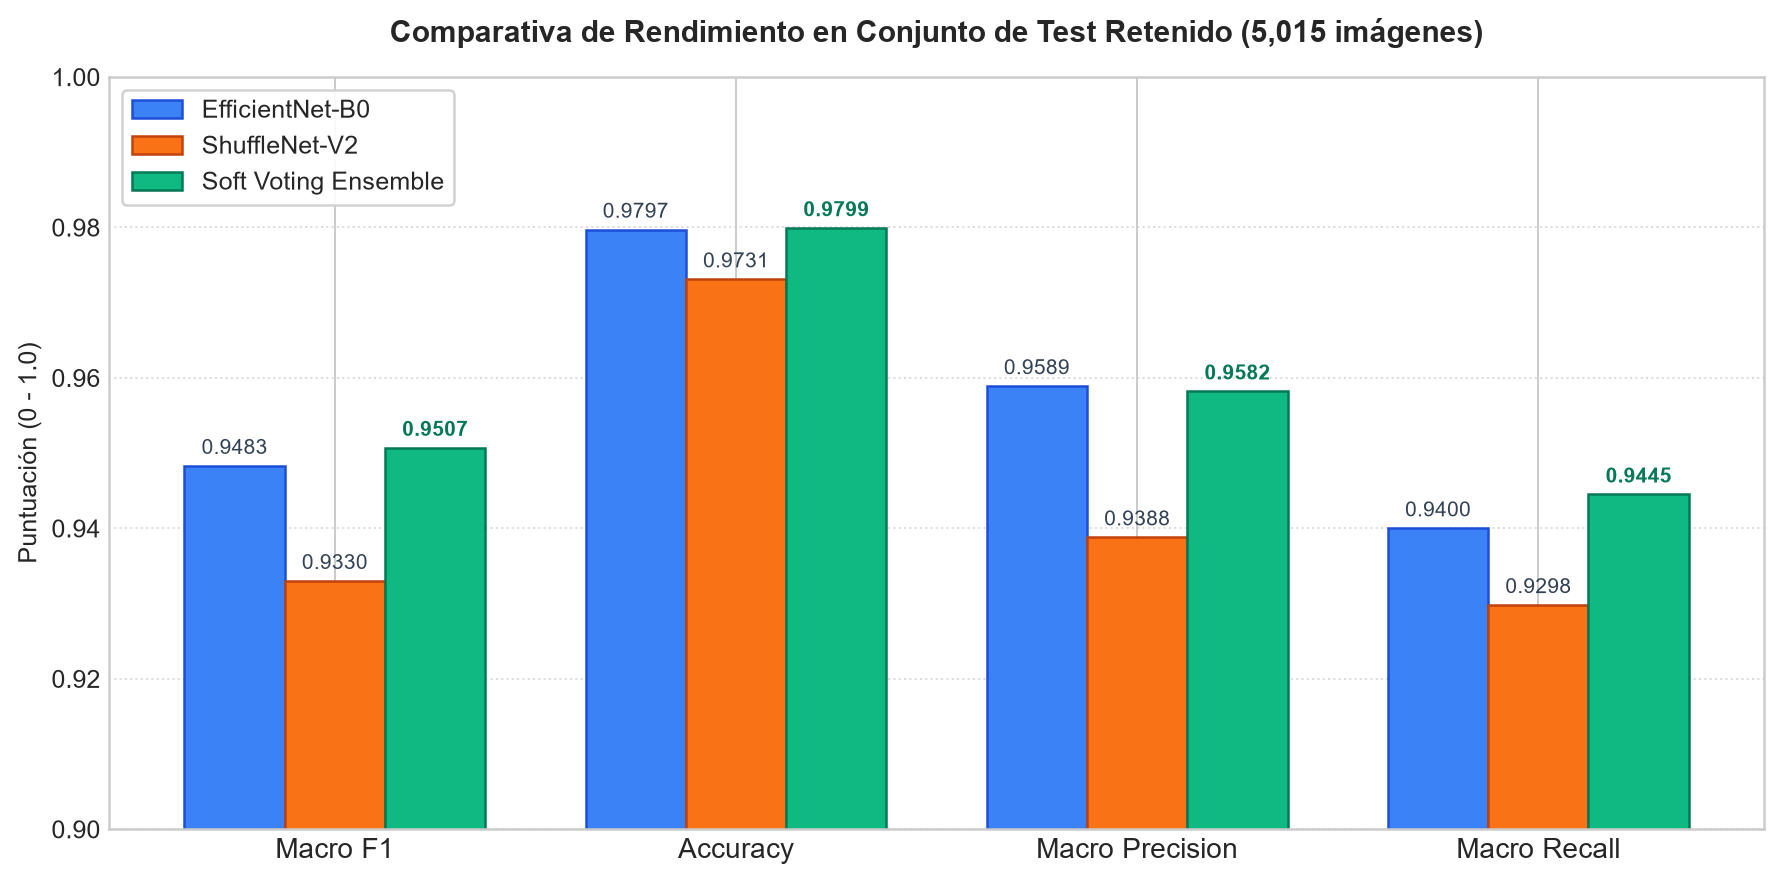
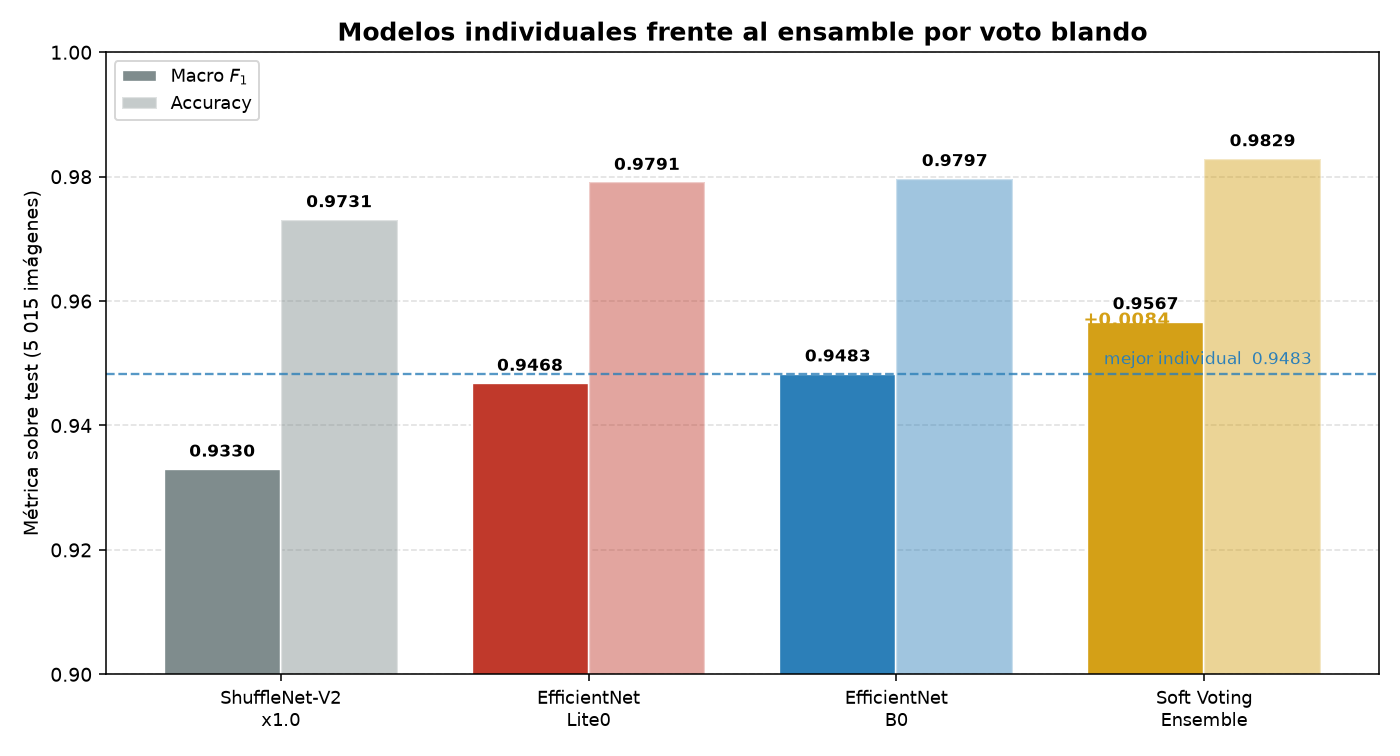
docs(ensamble): corregir toda la pagina al ensamble de tres modelos
El diagrama, la formula de agregacion y la figura comparativa describian un ensamble
de dos modelos. Correcciones verificadas contra ensemble_predictions.csv:

- Diagrama y formula pasan a tres ramas con pesos 1/3, que es lo que asigna
  src/models/ensemble.py cuando no se especifican; el documento afirmaba 0.5 y 0.5.
- Recuentos de parametros sustituidos por los del modelo con cabeza de 9 clases
  (4.02 / 3.38 / 1.26 M) en lugar de los de la publicacion original con 1000 clases.
- ensemble_comparison_bar.png regenerada con las cuatro barras.
- Macro Recall del ensamble 0.9506, no 0.9445, que era la cifra del ensamble anterior.
- Hallazgos por clase recomputados: healthy 0.9939 de precision (no 99.7%), roya
  0.9882 de recall (no 98.5%), nitrogeno 0.9057 y fosforo 0.9632 de F1 (no 89.5% y
  95.3%), y se anade potasio con sus tres metricas.
- Los comandos de reproducibilidad pasan checkpoints explicitos: el autodescubrimiento
  selecciona para lite0 la corrida segmentada, que rinde 0.7191.

diff --git a/docs/es/pipeline/ensamble.md b/docs/es/pipeline/ensamble.md
@@ -11,36 +11,34 @@ En el aprendizaje profundo, un ensamble solo produce ganancias significativas si
 Por esta razón se seleccionaron arquitecturas con **sesgos inductivos (*inductive bias*) dispares**. `EfficientNet-Lite0` aporta una tercera fuente de diversidad: sustituye los bloques Squeeze & Excitation y las activaciones *swish* de `B0` por operaciones cuantizables, de modo que su representación interna difiere de la de `B0` pese a compartir la familia de escalado compuesto.
 
 ```
-                         ┌────────────────────────────────────┐
-                         │ Imagen de Entrada (224 x 224 x 3)  │
-                         └─────────────────┬──────────────────┘
-                                           │
-                    ┌──────────────────────┴──────────────────────┐
-                    ▼                                             ▼
-     ┌─────────────────────────────┐               ┌─────────────────────────────┐
-     │      EfficientNet-B0        │               │      ShuffleNet-V2-x1.0     │
-     │ • Bloques MBConv Invertidos │               │ • Channel Split & Shuffle   │
-     │ • Atención Squeeze & Excite │               │ • Sin atención de canales   │
-     │ • Compounding Scaling (NAS) │               │ • Optimización de memoria   │
-     │ • Parámetros: 5.3 M         │               │ • Parámetros: 2.3 M         │
-     └──────────────┬──────────────┘               └──────────────┬──────────────┘
-                    │                                             │
-                    ▼                                             ▼
-          Vector Probabilidades P_1                     Vector Probabilidades P_2
-          [p_1, p_2, ..., p_9]                          [q_1, q_2, ..., q_9]
-                    │                                             │
-                    └──────────────────────┬──────────────────────┘
-                                           │
-                                           ▼
-                    ┌─────────────────────────────────────────────┐
-                    │       Agregación por Soft Voting            │
-                    │       P_ens = 0.5 * P_1 + 0.5 * P_2         │
-                    └──────────────────────┬──────────────────────┘
-                                           │
-                                           ▼
-                    ┌─────────────────────────────────────────────┐
-                    │ Predicción Final: y_hat = argmax(P_ens)     │
-                    └─────────────────────────────────────────────┘
+                    ┌────────────────────────────────────┐
+                    │ Imagen de Entrada (224 x 224 x 3)  │
+                    └─────────────────┬──────────────────┘
+                                      │
+          ┌───────────────────────────┼───────────────────────────┐
+          ▼                           ▼                           ▼
+ ┌──────────────────┐      ┌──────────────────┐      ┌──────────────────┐
+ │ EfficientNet-B0  │      │EfficientNet-Lite0│      │ShuffleNet-V2-x1.0│
+ │ • MBConv + SE    │      │ • MBConv sin SE  │      │ • Channel Split  │
+ │ • Activación     │      │ • ReLU6 en vez   │      │   & Shuffle      │
+ │   swish          │      │   de swish       │      │ • Sin atención   │
+ │ • 4.02 M param.  │      │ • 3.38 M param.  │      │ • 1.26 M param.  │
+ └────────┬─────────┘      └────────┬─────────┘      └────────┬─────────┘
+          │                         │                         │
+          ▼                         ▼                         ▼
+        P_1                       P_2                       P_3
+   [p_1 ... p_9]             [q_1 ... q_9]             [r_1 ... r_9]
+          │                         │                         │
+          └───────────────────────────┼───────────────────────┘
+                                      ▼
+                 ┌─────────────────────────────────────────┐
+                 │        Agregación por Soft Voting       │
+                 │  P_ens = (P_1 + P_2 + P_3) / 3          │
+                 └────────────────────┬────────────────────┘
+                                      ▼
+                 ┌─────────────────────────────────────────┐
+                 │ Predicción Final: y_hat = argmax(P_ens) │
+                 └─────────────────────────────────────────┘
 ```
 
 ### Algoritmo de Inferencia:
@@ -50,7 +48,9 @@ $$P_m(y = c \mid x) = \frac{e^{z_{m, c}}}{\sum_{j=1}^C e^{z_{m, j}}}$$
 El ensamble por Soft Voting ponderado calcula la distribución conjunta:
 $$P_{\text{ensemble}}(y = c \mid x) = \sum_{m=1}^M w_m \cdot P_m(y = c \mid x), \quad \text{donde } \sum_{m=1}^M w_m = 1$$
 
-En nuestra implementación, los pesos se configuraron en paridad equilibrada ($w_1 = 0.5$, $w_2 = 0.5$), permitiendo que la confianza probabilística de ambas redes filtre la incertidumbre individual.
+En la implementación los pesos son uniformes: `src/models/ensemble.py` asigna $w_m = 1/M$ cuando no se especifican, es decir $1/3$ a cada una de las tres redes. No se exploró ponderar por rendimiento individual.
+
+Los recuentos de parámetros del diagrama son los del modelo con la cabeza de 9 clases de este proyecto, no los de la publicación original con 1000 clases.
 
 ---
 
@@ -71,8 +71,12 @@ Al evaluar el ensamble en el conjunto de prueba independiente (`test.csv`), los 
 | **EfficientNet-B0** | 0.9483 (94.83%) | 0.9797 (97.97%) | 0.9589 | 0.9400 | (Base individual) |
 | **Soft Voting Ensemble** 🏆 | **`0.9567` (95.67%)** | **`0.9829` (98.29%)** | **`0.9642`** | **`0.9506`** | **+0.84 pp netos** 🚀 |
 
-::: tip Máxima Sensibilidad Agronómica (Recall: 94.45%)
-El mayor beneficio del ensamble se observa en el **Macro Recall**, que asciende a **0.9445 (94.45%)**, superior tanto a EfficientNet (0.9400) como a ShuffleNet (0.9298). En patología vegetal, el Recall es la métrica de bioseguridad más crítica: un falso negativo (no detectar una roya o una deficiencia foliar incipiente) cuesta la pérdida potencial del cultivo.
+::: tip Máxima sensibilidad agronómica (Recall: 95.06%)
+El mayor beneficio del ensamble está en el **Macro Recall**, que asciende a **0.9506**, por encima de las tres redes individuales: `EfficientNet-Lite0` 0.9413, `EfficientNet-B0` 0.9400 y `ShuffleNet-V2` 0.9298. En patología vegetal el Recall es la métrica de bioseguridad más crítica: un falso negativo —no detectar una roya o una deficiencia incipiente— cuesta la pérdida potencial del cultivo.
+:::
+
+::: warning La ganancia no está repartida
+El +0.84 pp es agregado. Desglosado por procedencia, el ensamble **mejora en 4 de las 14 fuentes del corpus y empeora en 5**: aporta donde el mejor modelo individual es débil (`corn_leaf_roboflow` +0.0144) y resta donde ya rozaba el techo (`cropdg` −0.0154). El desglose completo está en [Modelos avanzados y ensamble](/es/resultados/ensamble).
 :::
 
 ---
@@ -85,14 +89,15 @@ La matriz de confusión normalizada calculada sobre las 5,015 imágenes del conj
 
 ### Hallazgos Diagnósticos Clave:
 
-1. **Rendimiento Perfecto en Patologías Críticas:**
-   - **Lethal Necrosis (MLN):** 100% de Recall (963 de 963 imágenes clasificadas correctamente, 0 falsos negativos). Esto es vital dado que la necrosis letal del maíz es cuarentenaria y destructiva.
-   - **Healthy (Planta Sana):** 99.7% de precisión. La red prácticamente no confunde plantas sanas con enfermas, eliminando tratamientos fitosanitarios innecesarios.
-   - **Common Rust (Roya):** 98.5% de sensibilidad sobre 338 muestras de campo y laboratorio.
+1. **Patologías críticas:**
+   - **Lethal Necrosis (MLN):** Recall de **1.0000** — 963 de 963 imágenes, sin falsos negativos. Relevante por tratarse de una enfermedad cuarentenaria y destructiva.
+   - **Healthy (planta sana):** precisión **0.9939** y recall 0.9977. Rara vez clasifica una planta enferma como sana, lo que limita los tratamientos fitosanitarios innecesarios.
+   - **Common Rust (roya):** recall **0.9882** sobre 338 muestras de campo y laboratorio.
 
-2. **Resolución de Casos de Frontera (Deficiencias Nutricionales):**
-   - Las deficiencias nutricionales (*Nitrogen*, *Phosphorus*, *Potassium*) representan el reto más severo debido al bajo número de muestras y la similitud visual de los patrones cloróticos.
-   - El ensamble logró un $F_1$ del **89.5% en Nitrógeno** y **95.3% en Fósforo**. En **Potasio** (clase más minoritaria con solo 93 muestras en test), el Soft Voting amortiguó los falsos positivos de ShuffleNet, alcanzando una precisión del **89%**.
+2. **Casos de frontera (deficiencias nutricionales):**
+   - Las tres deficiencias son el reto más severo, por bajo soporte y por la similitud visual de los patrones cloróticos.
+   - $F_1$ de **0.9057** en nitrógeno y **0.9632** en fósforo. En **potasio** —la clase de menor soporte, 93 muestras— el $F_1$ es **0.8475**, con precisión 0.8929 y recall 0.8065.
+   - Las tres son también las clases con más falsos negativos del sistema, lo que motiva la advertencia de confianza descrita en [Evaluación](./evaluacion).
 
 ---
 
@@ -112,11 +117,16 @@ La existencia de este ensamble multimodelo permite una arquitectura de despliegu
 
 Para reproducir la evaluación del ensamble en cualquier momento:
 
+Los checkpoints se pasan explícitos. El autodescubrimiento por `latest.json` selecciona para `efficientnet_lite0` la corrida `20260907_163546`, que es la entrenada sobre imágenes segmentadas y rinde 0.7191:
+
 ```bash
 # En GPU remota (Modal):
-make modal-ensemble MODELS="efficientnet_b0 shufflenet_v2_x1_0"
+modal run --detach scripts/modal/train.py::evaluate_ensemble_modal   --models "efficientnet_lite0 efficientnet_b0 shufflenet_v2_x1_0"   --checkpoints "/outputs/main/efficientnet_lite0/20260812_221429/best.pth /outputs/main/efficientnet_b0/20260910_170120/best.pth /outputs/main/shufflenet_v2_x1_0/20260910_184521/best.pth"   --num-workers 32 --output-dir /outputs/ensemble_mejores
 
-# O en entorno local:
-make evaluate-ensemble MODELS="efficientnet_b0 shufflenet_v2_x1_0"
+# En entorno local:
+python scripts/pipeline/evaluate_ensemble.py   --models efficientnet_lite0 efficientnet_b0 shufflenet_v2_x1_0   --checkpoints <ruta_lite0> <ruta_b0> <ruta_shufflenet>   --num-workers 8
 ```
-*(Los reportes se serializan automáticamente en `outputs/ensemble/ensemble_summary.json` y `outputs/ensemble/ensemble_comparison.csv`).*
+
+La corrida serializa `ensemble_summary.json`, `ensemble_comparison.csv` y
+`ensemble_predictions.csv`, este último con una fila por imagen que incluye la procedencia y la
+predicción de cada modelo individual. Toda cifra de esta página se recomputa desde él.
